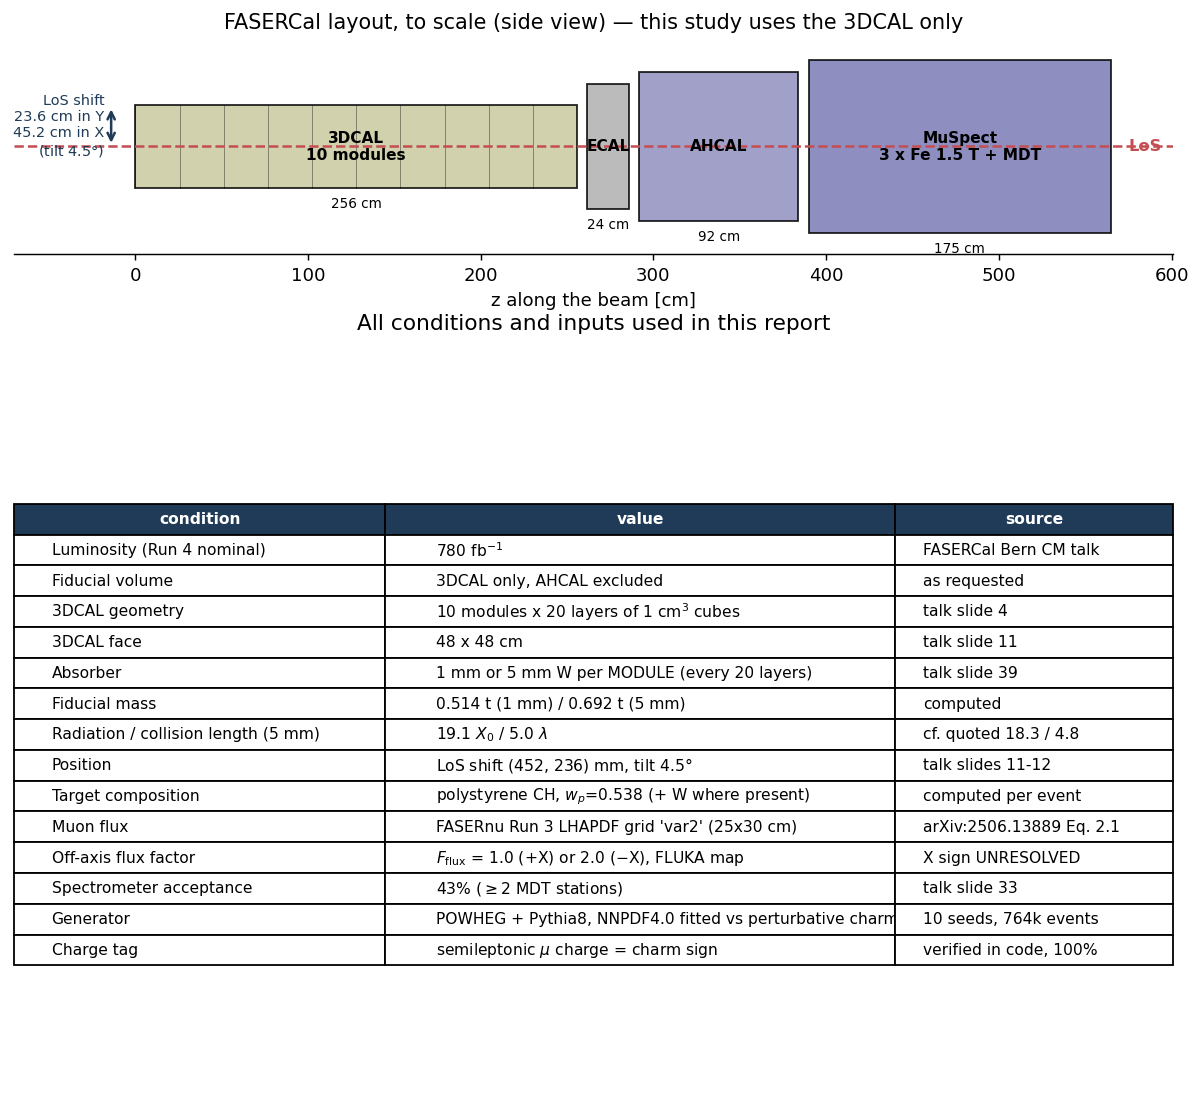
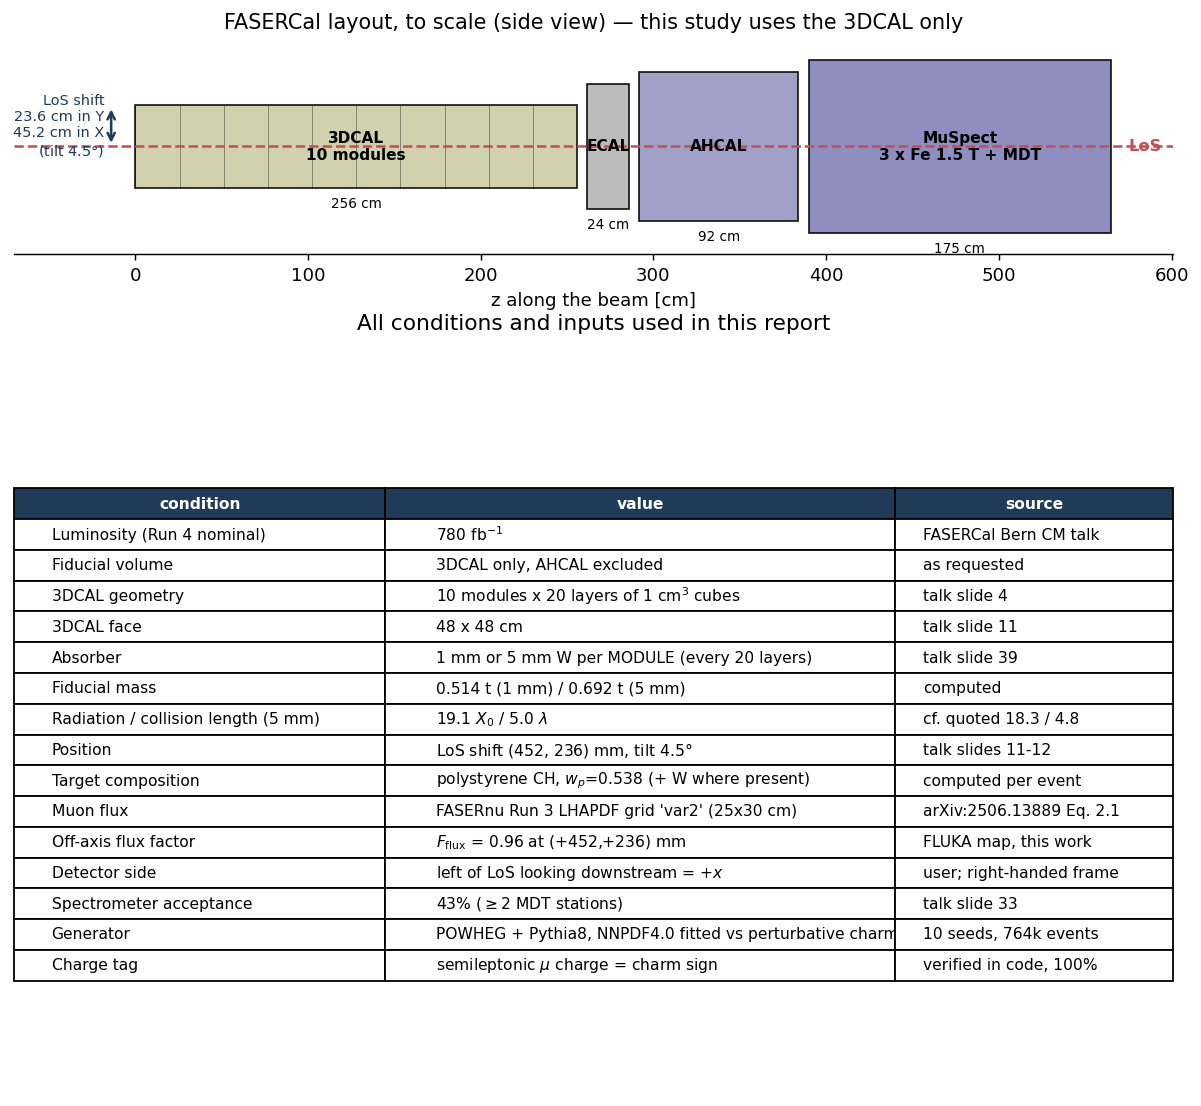
Report: update conditions page and cutflow caption for the resolved position
The numbers were already regenerated with F_flux = 0.96, but two pieces of text
still said the X sign convention was unresolved. Now state the resolved
position (left of LoS looking downstream = +x, (+452,+236) mm, F_flux = 0.96,
the quieter lobe) and add a 'detector side' row to the conditions table.

Changed region(s): [[0.0, 0.4304, 0.9858, 0.8915]]

diff --git a/python/make_chain_report.py b/python/make_chain_report.py
@@ -100,8 +100,9 @@ def page_conditions(pdf, d):
                      f"tilt {G.TILT_DEG:.1f}$\\degree$", "talk slides 11-12"),
         ("Target composition", "polystyrene CH, $w_p$=0.538 (+ W where present)", "computed per event"),
         ("Muon flux", "FASERnu Run 3 LHAPDF grid 'var2' (25x30 cm)", "arXiv:2506.13889 Eq. 2.1"),
-        ("Off-axis flux factor", "$F_{\\rm flux}$ = 1.0 (+X) or 2.0 ($-$X), FLUKA map",
-         "X sign UNRESOLVED"),
+        ("Off-axis flux factor", f"$F_{{\\rm flux}}$ = {F.F_FLUX:.2f} at (+452,+236) mm",
+         "FLUKA map, this work"),
+        ("Detector side", "left of LoS looking downstream = $+x$", "user; right-handed frame"),
         ("Spectrometer acceptance", f"{100*F.DEFAULTS['acc_spectrometer']:.0f}% "
                                     "($\\geq$2 MDT stations)", "talk slide 33"),
         ("Generator", "POWHEG + Pythia8, NNPDF4.0 fitted vs perturbative charm", "10 seeds, 764k events"),
@@ -148,10 +149,10 @@ def page_cutflow(pdf, d, m):
     fig.text(0.5, 0.09,
              "3DCAL geometry and mass are now the DESIGNED values (Bern CM talk, 15 Jul 2026): "
              "10 modules x 20 layers of 1 cm cubes, 48x48 cm face, W per module.\n"
-             "Yields scale linearly with the off-axis flux factor; at the designed LoS shift "
-             "(452, 236) mm the FLUKA map gives F_flux = 1.0-2.0 depending on the sign\n"
-             "convention of X, which is not yet resolved. The chain fractions are ratios and "
-             "are robust against both.",
+             "The detector sits LEFT of the LoS looking downstream, i.e. at (+452, +236) mm, where the "
+             "FLUKA map gives F_flux = 0.96 — the quieter lobe.\n"
+             "(The mirror position would have given 2.02, with a harder, mu+-enriched beam.) "
+             "Yields scale linearly with F_flux and with the efficiency; the chain fractions are ratios.",
              ha="center", fontsize=9, style="italic")
     ax.set_title("Muon-DIS charm chain in FASERcal (AHCAL excluded)", fontsize=13, pad=16)
     _emit(fig, pdf, "10_chain_cutflow", tight=False)
